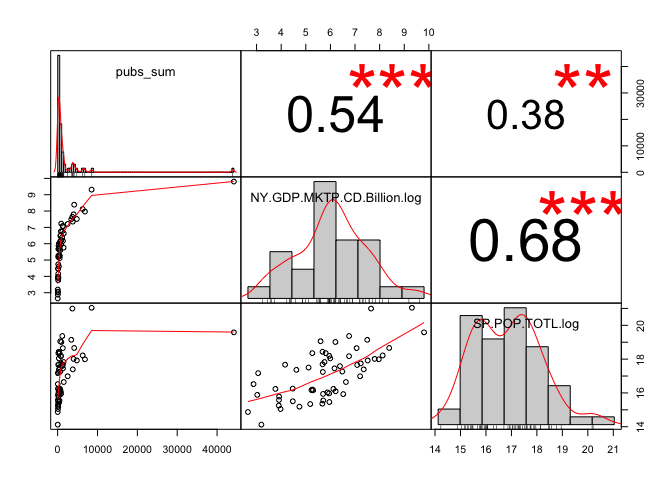
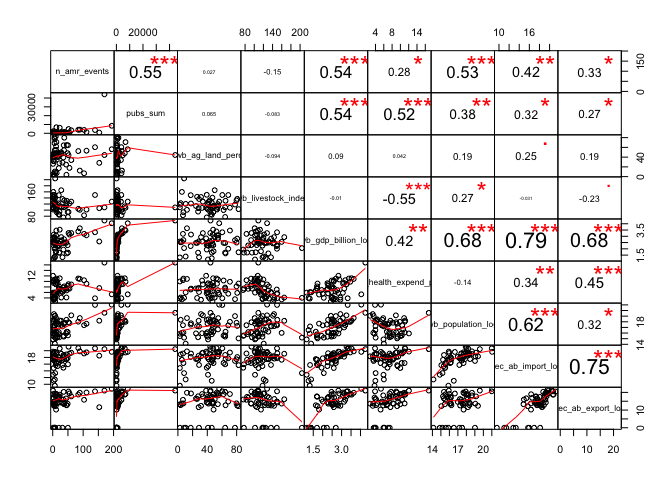
Update models and figures with new variables

diff --git a/01-country-analysis.md b/01-country-analysis.md
@@ -1,7 +1,7 @@
 exploratory\_analysis
 ================
 emmamendelsohn
-Thu Feb 7 12:22:19 2019
+Thu Mar 14 11:06:17 2019
 
 —————–View
 Data—————–
@@ -15,54 +15,58 @@ Data—————–
     ## Link function: log 
     ## 
     ## Formula:
-    ## n ~ s(NY.GDP.MKTP.CD.Billion.log) + continent + s(SP.POP.TOTL.log) + 
-    ##     s(pubs_sum)
+    ## n_amr_events ~ s(wb_gdp_billion_log) + s(wb_population_log) + 
+    ##     s(wb_ag_land_perc) + s(oec_ab_export_log) + s(pubs_sum)
     ## 
     ## Parametric coefficients:
-    ##                   Estimate Std. Error t value Pr(>|t|)    
-    ## (Intercept)         3.1875     0.4432   7.192 2.84e-09 ***
-    ## continentAmericas   0.1220     0.5556   0.220    0.827    
-    ## continentAsia       0.2400     0.4770   0.503    0.617    
-    ## continentEurope     0.1235     0.5679   0.217    0.829    
-    ## continentOceania   -0.7974     1.1509  -0.693    0.492    
+    ##             Estimate Std. Error t value Pr(>|t|)    
+    ## (Intercept)   3.3100     0.1472   22.49   <2e-16 ***
     ## ---
     ## Signif. codes:  0 '***' 0.001 '**' 0.01 '*' 0.05 '.' 0.1 ' ' 1
     ## 
     ## Approximate significance of smooth terms:
-    ##                                 edf Ref.df     F p-value
-    ## s(NY.GDP.MKTP.CD.Billion.log) 1.462  1.802 1.148   0.271
-    ## s(SP.POP.TOTL.log)            1.000  1.000 1.532   0.222
-    ## s(pubs_sum)                   1.000  1.001 0.176   0.677
+    ##                         edf Ref.df     F p-value  
+    ## s(wb_gdp_billion_log) 1.478  1.828 0.377  0.5889  
+    ## s(wb_population_log)  1.000  1.000 4.672  0.0353 *
+    ## s(wb_ag_land_perc)    1.000  1.000 0.758  0.3880  
+    ## s(oec_ab_export_log)  1.000  1.000 0.627  0.4323  
+    ## s(pubs_sum)           1.000  1.000 0.282  0.5978  
+    ## ---
+    ## Signif. codes:  0 '***' 0.001 '**' 0.01 '*' 0.05 '.' 0.1 ' ' 1
     ## 
-    ## R-sq.(adj) =  0.503   Deviance explained = 45.9%
-    ## -REML = 127.02  Scale est. = 27.673    n = 59
+    ## R-sq.(adj) =   0.53   Deviance explained = 45.3%
+    ## -REML = 126.22  Scale est. = 28.942    n = 57
 
-    ##               para s(NY.GDP.MKTP.CD.Billion.log) s(SP.POP.TOTL.log)
-    ## worst    0.9217435                     0.9995730          0.8112508
-    ## observed 0.9217435                     0.9484228          0.7792228
-    ## estimate 0.9217435                     0.8830085          0.7046101
-    ##          s(pubs_sum)
-    ## worst      0.9995748
-    ## observed   0.9822554
-    ## estimate   0.9766782
+    ##                  para s(wb_gdp_billion_log) s(wb_population_log)
+    ## worst    2.856221e-21             0.9998359            0.9314973
+    ## observed 2.856221e-21             0.9775111            0.8171150
+    ## estimate 2.856221e-21             0.9410362            0.7886507
+    ##          s(wb_ag_land_perc) s(oec_ab_export_log) s(pubs_sum)
+    ## worst             0.9305826             0.971521   0.9998344
+    ## observed          0.4697191             0.854018   0.9915412
+    ## estimate          0.5066002             0.835728   0.9906753
 
 ![](01-country-analysis_files/figure-gfm/r%20mod-gam-1.png)<!-- -->
 
     ## 
     ## Method: REML   Optimizer: outer newton
-    ## full convergence after 8 iterations.
-    ## Gradient range [-5.566873e-05,0.0001164018]
-    ## (score 127.0163 & scale 27.67271).
-    ## Hessian positive definite, eigenvalue range [3.297272e-06,25.5025].
-    ## Model rank =  32 / 32 
+    ## full convergence after 12 iterations.
+    ## Gradient range [-1.536826e-05,4.236904e-05]
+    ## (score 126.2167 & scale 28.94186).
+    ## Hessian positive definite, eigenvalue range [2.814424e-06,25.50274].
+    ## Model rank =  46 / 46 
     ## 
     ## Basis dimension (k) checking results. Low p-value (k-index<1) may
     ## indicate that k is too low, especially if edf is close to k'.
     ## 
-    ##                                 k'  edf k-index p-value
-    ## s(NY.GDP.MKTP.CD.Billion.log) 9.00 1.46    1.05    0.64
-    ## s(SP.POP.TOTL.log)            9.00 1.00    1.05    0.73
-    ## s(pubs_sum)                   9.00 1.00    0.87    0.14
+    ##                         k'  edf k-index p-value  
+    ## s(wb_gdp_billion_log) 9.00 1.48    1.14   0.850  
+    ## s(wb_population_log)  9.00 1.00    1.06   0.635  
+    ## s(wb_ag_land_perc)    9.00 1.00    0.83   0.085 .
+    ## s(oec_ab_export_log)  9.00 1.00    0.93   0.310  
+    ## s(pubs_sum)           9.00 1.00    0.88   0.150  
+    ## ---
+    ## Signif. codes:  0 '***' 0.001 '**' 0.01 '*' 0.05 '.' 0.1 ' ' 1
 
 —————–Fit BART—————–
 
@@ -74,19 +78,23 @@ Data—————–
     ##  k: 2.000000
     ##  degrees of freedom in sigma prior: 3.000000
     ##  quantile in sigma prior: 0.900000
-    ##  scale in sigma prior: 0.006352
+    ##  scale in sigma prior: 0.004738
     ##  power and base for tree prior: 2.000000 0.950000
     ##  use quantiles for rule cut points: false
     ## data:
-    ##  number of training observations: 59
+    ##  number of training observations: 57
     ##  number of test observations: 0
-    ##  number of explanatory variables: 8
-    ##  init sigma: 34.852854, curr sigma: 34.852854
+    ##  number of explanatory variables: 26
+    ##  init sigma: 30.099537, curr sigma: 30.099537
     ## 
     ## Cutoff rules c in x<=c vs x>c
     ## Number of cutoffs: (var: number of possible c):
     ## (1: 100) (2: 100) (3: 100) (4: 100) (5: 100) 
-    ## (6: 100) (7: 100) (8: 100) 
+    ## (6: 100) (7: 100) (8: 100) (9: 100) (10: 100) 
+    ## (11: 100) (12: 100) (13: 100) (14: 100) (15: 100) 
+    ## (16: 100) (17: 100) (18: 100) (19: 100) (20: 100) 
+    ## (21: 100) (22: 100) (23: 100) (24: 100) (25: 100) 
+    ## (26: 100) 
     ## Running mcmc loop:
     ## iteration: 100 (of 1000)
     ## iteration: 200 (of 1000)
@@ -98,24 +106,28 @@ Data—————–
     ## iteration: 800 (of 1000)
     ## iteration: 900 (of 1000)
     ## iteration: 1000 (of 1000)
-    ## total seconds in loop: 0.800770
+    ## total seconds in loop: 0.855961
     ## 
     ## Tree sizes, last iteration:
-    ## [1] 3 2 1 2 2 2 1 3 2 2 2 3 3 2 2 2 2 2 
-    ## 2 2 4 2 3 2 2 2 3 2 2 3 2 2 2 2 2 2 2 2 
-    ## 3 2 2 4 2 2 2 3 2 2 2 2 2 4 2 3 2 2 1 3 
-    ## 2 2 4 3 2 2 2 4 1 1 2 2 2 3 3 3 3 4 2 2 
-    ## 2 3 2 2 2 2 2 2 2 2 2 3 2 2 2 2 2 2 3 2 
-    ## 2 2 3 2 2 1 2 2 3 1 2 1 3 1 2 3 2 2 3 2 
-    ## 2 2 2 3 1 3 2 3 2 2 3 3 2 3 2 2 2 3 2 2 
-    ## 2 3 2 2 3 2 3 2 2 2 2 2 1 2 2 3 2 2 2 2 
-    ## 2 2 2 3 2 2 2 2 2 2 3 3 2 2 2 2 2 2 2 1 
-    ## 4 2 2 2 3 2 2 3 2 2 2 2 2 2 2 2 2 2 2 3 
+    ## [1] 2 3 3 3 2 2 2 2 2 2 1 2 2 2 2 2 2 4 
+    ## 2 2 2 2 2 2 2 2 2 1 3 2 2 2 2 3 1 2 2 2 
+    ## 1 3 2 3 2 2 2 2 2 2 2 2 2 2 3 2 2 3 2 1 
+    ## 3 2 2 2 2 2 2 3 3 3 3 3 2 2 2 2 3 3 2 2 
+    ## 2 2 2 2 2 2 2 2 3 2 1 2 2 3 2 2 2 2 2 2 
+    ## 2 4 2 2 2 3 2 2 2 3 2 2 2 2 2 2 2 3 3 3 
+    ## 3 3 1 3 2 2 2 2 2 2 2 2 2 3 2 2 2 3 3 2 
+    ## 2 2 2 2 2 2 2 2 2 2 3 2 2 2 2 3 2 2 2 1 
+    ## 2 2 2 3 2 3 2 3 2 2 2 1 2 4 2 3 2 2 2 2 
+    ## 2 3 2 2 2 2 2 2 2 1 3 2 2 2 2 2 2 1 2 2 
     ## 2 2 
     ## 
     ## Variable Usage, last iteration (var:count):
-    ## (1: 30) (2: 27) (3: 20) (4: 27) (5: 26) 
-    ## (6: 38) (7: 34) (8: 41) 
+    ## (1: 12) (2: 12) (3: 8) (4: 11) (5: 4) 
+    ## (6: 12) (7: 11) (8: 10) (9: 9) (10: 9) 
+    ## (11: 6) (12: 12) (13: 10) (14: 14) (15: 9) 
+    ## (16: 6) (17: 10) (18: 8) (19: 10) (20: 11) 
+    ## (21: 7) (22: 7) (23: 3) (24: 5) (25: 6) 
+    ## (26: 11) 
     ## DONE BART
 
     ##                 Length Class         Mode   
@@ -123,12 +135,12 @@ Data—————–
     ## first.sigma       100  -none-        numeric
     ## sigma            1000  -none-        numeric
     ## sigest              1  -none-        numeric
-    ## yhat.train      59000  -none-        numeric
-    ## yhat.train.mean    59  -none-        numeric
+    ## yhat.train      57000  -none-        numeric
+    ## yhat.train.mean    57  -none-        numeric
     ## yhat.test           0  -none-        NULL   
     ## yhat.test.mean      0  -none-        NULL   
-    ## varcount         8000  -none-        numeric
-    ## y                  59  -none-        numeric
+    ## varcount        26000  -none-        numeric
+    ## y                  57  -none-        numeric
     ## fit                 1  dbartsSampler S4
 
 —————–Compare models—————–
@@ -136,12 +148,12 @@ Data—————–
     ## # A tibble: 2 x 2
     ##   model mean_residuals
     ##   <chr>          <dbl>
-    ## 1 bart            21.6
-    ## 2 gam             20.7
+    ## 1 bart            18.3
+    ## 2 gam             20.4
 
-    ##              n       gam      bart
-    ## n    1.0000000 0.7541112 0.7677855
-    ## gam  0.7541112 1.0000000 0.9694526
-    ## bart 0.7677855 0.9694526 1.0000000
+    ##              n_amr_events       gam      bart
+    ## n_amr_events    1.0000000 0.7605294 0.8802326
+    ## gam             0.7605294 1.0000000 0.8770936
+    ## bart            0.8802326 0.8770936 1.0000000
 
 ![](01-country-analysis_files/figure-gfm/r%20mod-comp-1.png)<!-- -->![](01-country-analysis_files/figure-gfm/r%20mod-comp-2.png)<!-- -->![](01-country-analysis_files/figure-gfm/r%20mod-comp-3.png)<!-- -->
